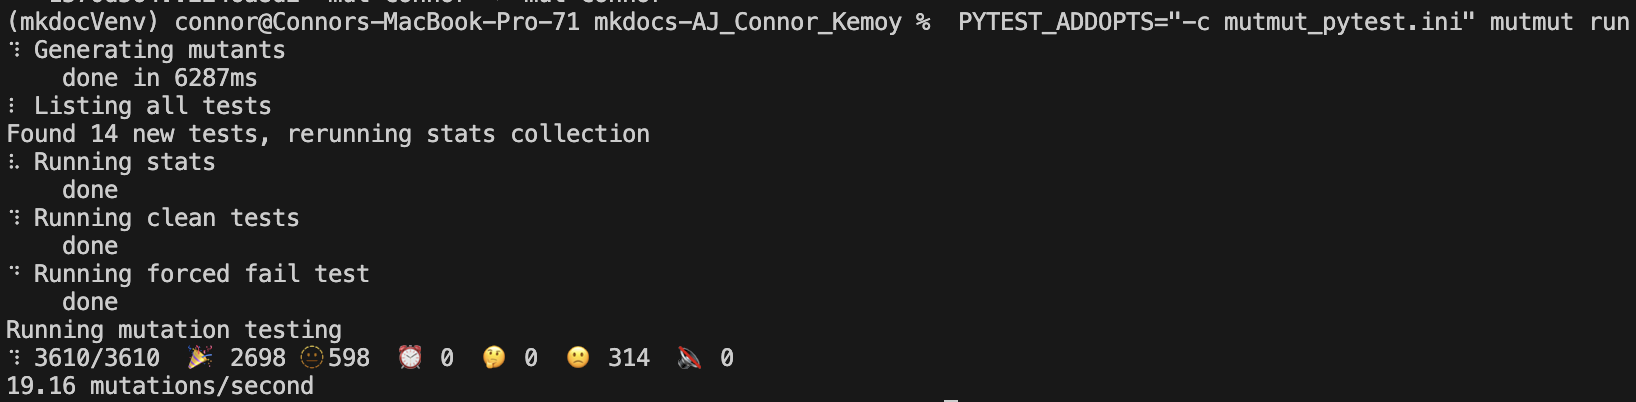
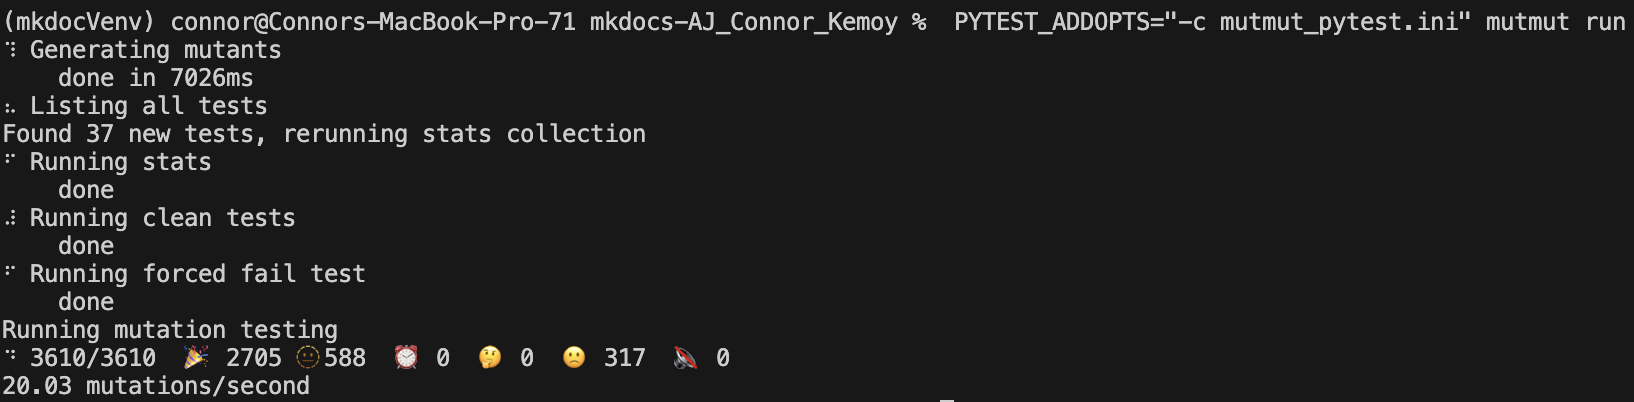
added the cli_tests back and ignored some tests that were failing anyways even on official mkdocs repo

Changed region(s): [[0.0, 0.0, 0.9988, 0.5672], [0.0, 0.806, 0.4682, 0.9851], [0.0, 0.597, 0.2497, 0.7761]]

diff --git a/courseProjectDocs/mutation-testing.md b/courseProjectDocs/mutation-testing.md
@@ -22,12 +22,12 @@ This document reports on mutation testing performed on the MkDocs project using 
 
 ```bash
 Total Mutants: 3610
-Killed 🎉: 2698 (74.7%)
-No tests 🫥: 598 (16.6%)
-Survived 🙁: 314 (8.7%)
+Killed 🎉: 2705 (74.9%)
+No tests 🫥: 588 (16.3%)
+Survived 🙁: 317 (8.8%)
 Timeout ⏰: 0 (0%)
 Suspicious 🤔: 0 (0%)
-Mutation Score (tested code): 89.6% (2698 of 3012 tested mutants)
+Mutation Score (tested code): 89.5% (2705 of 3022 tested mutants)
 Speed: 19.44 mutations/second
 ```
 
